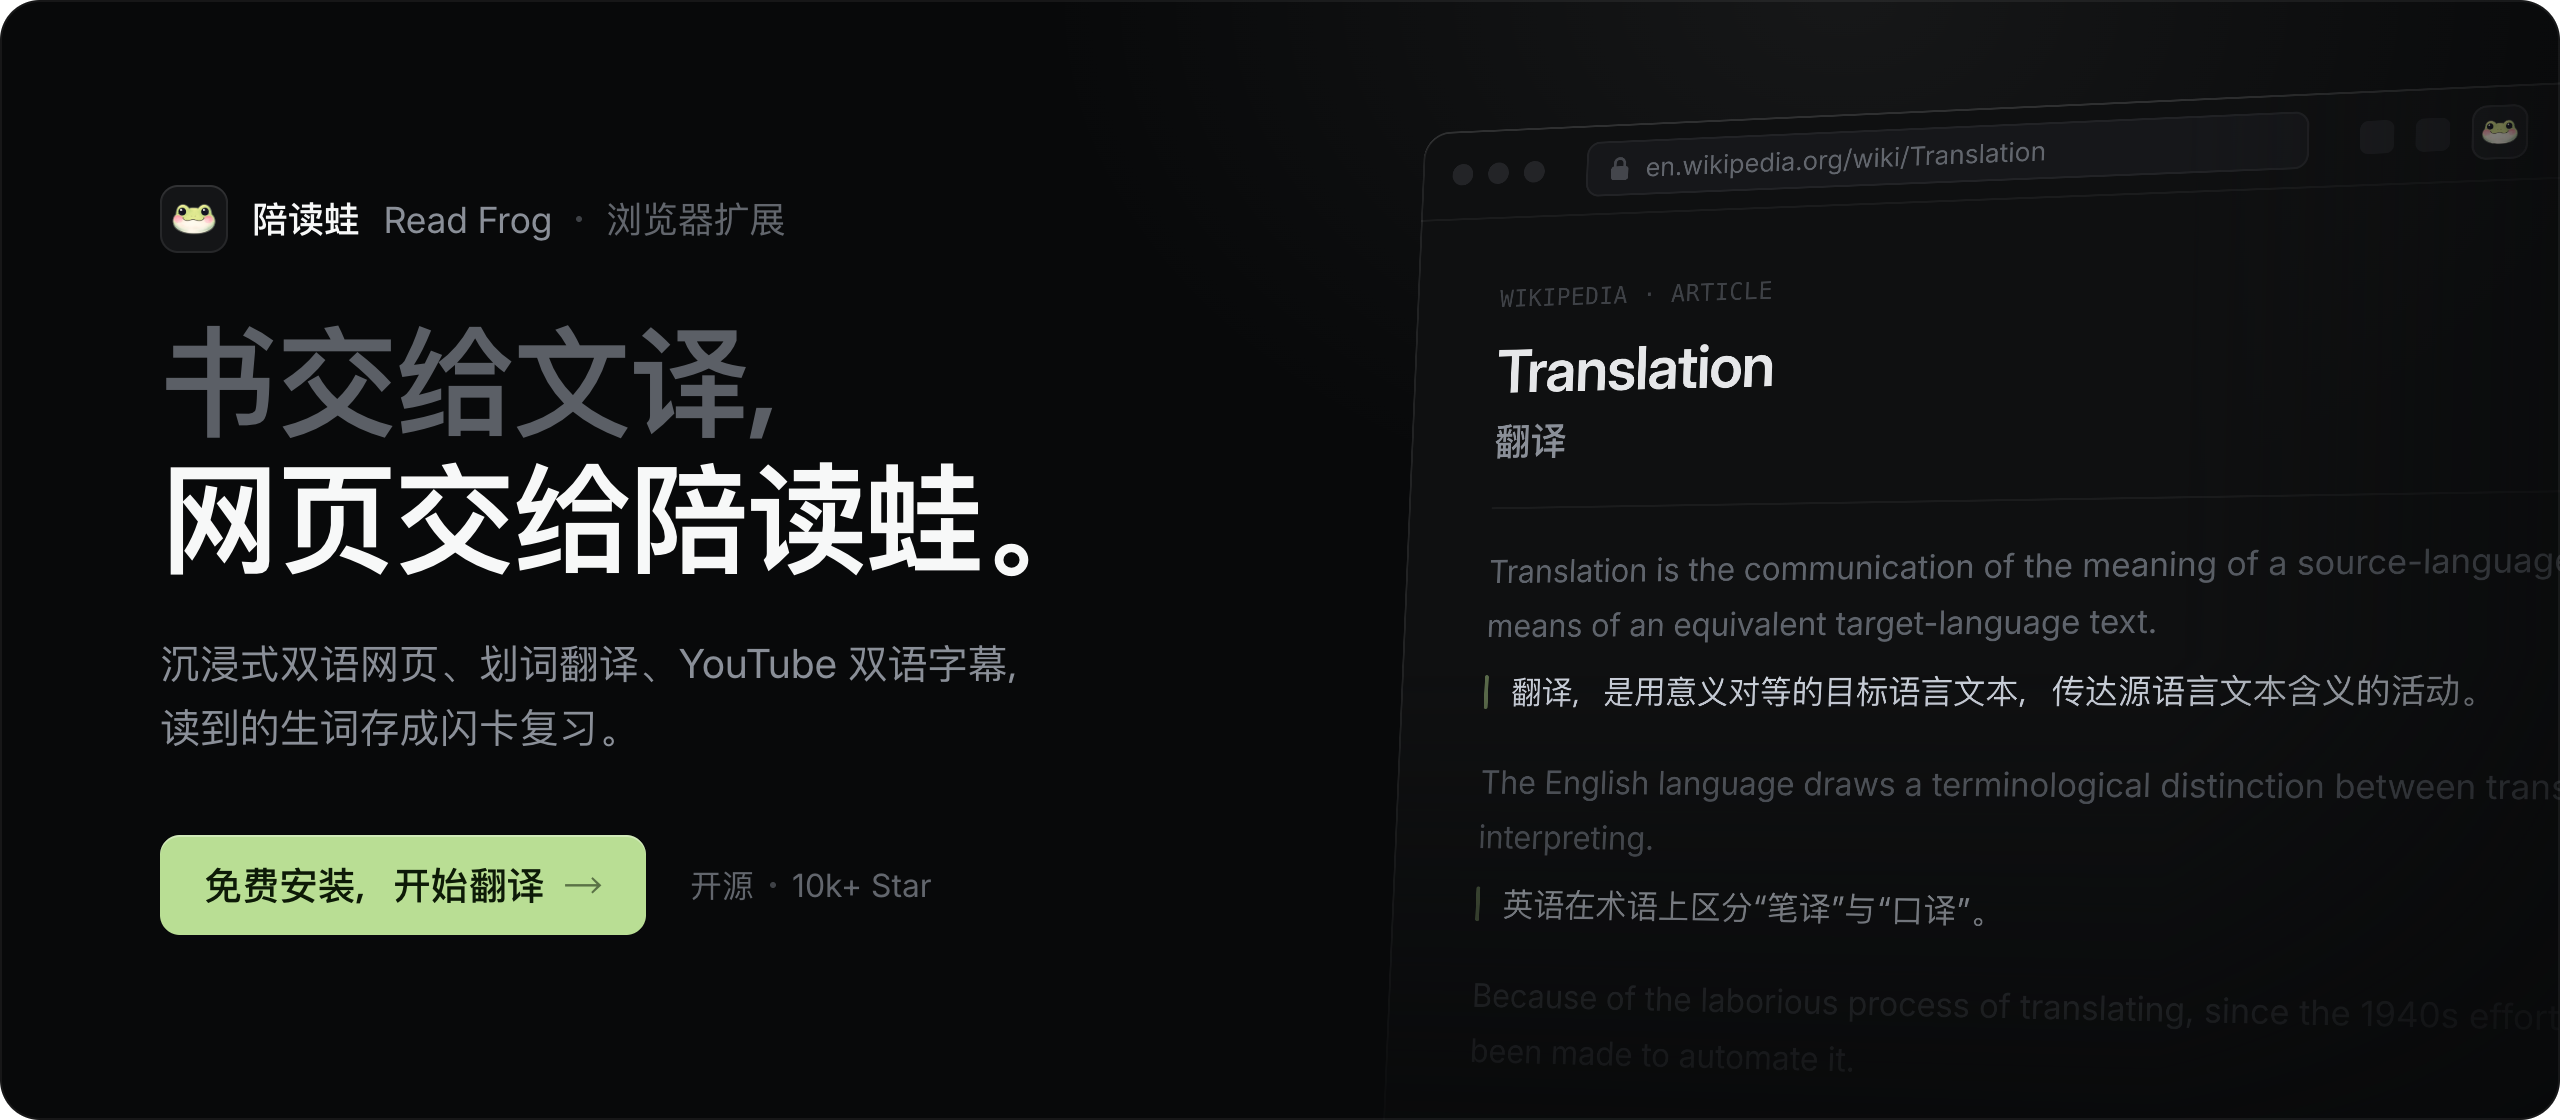
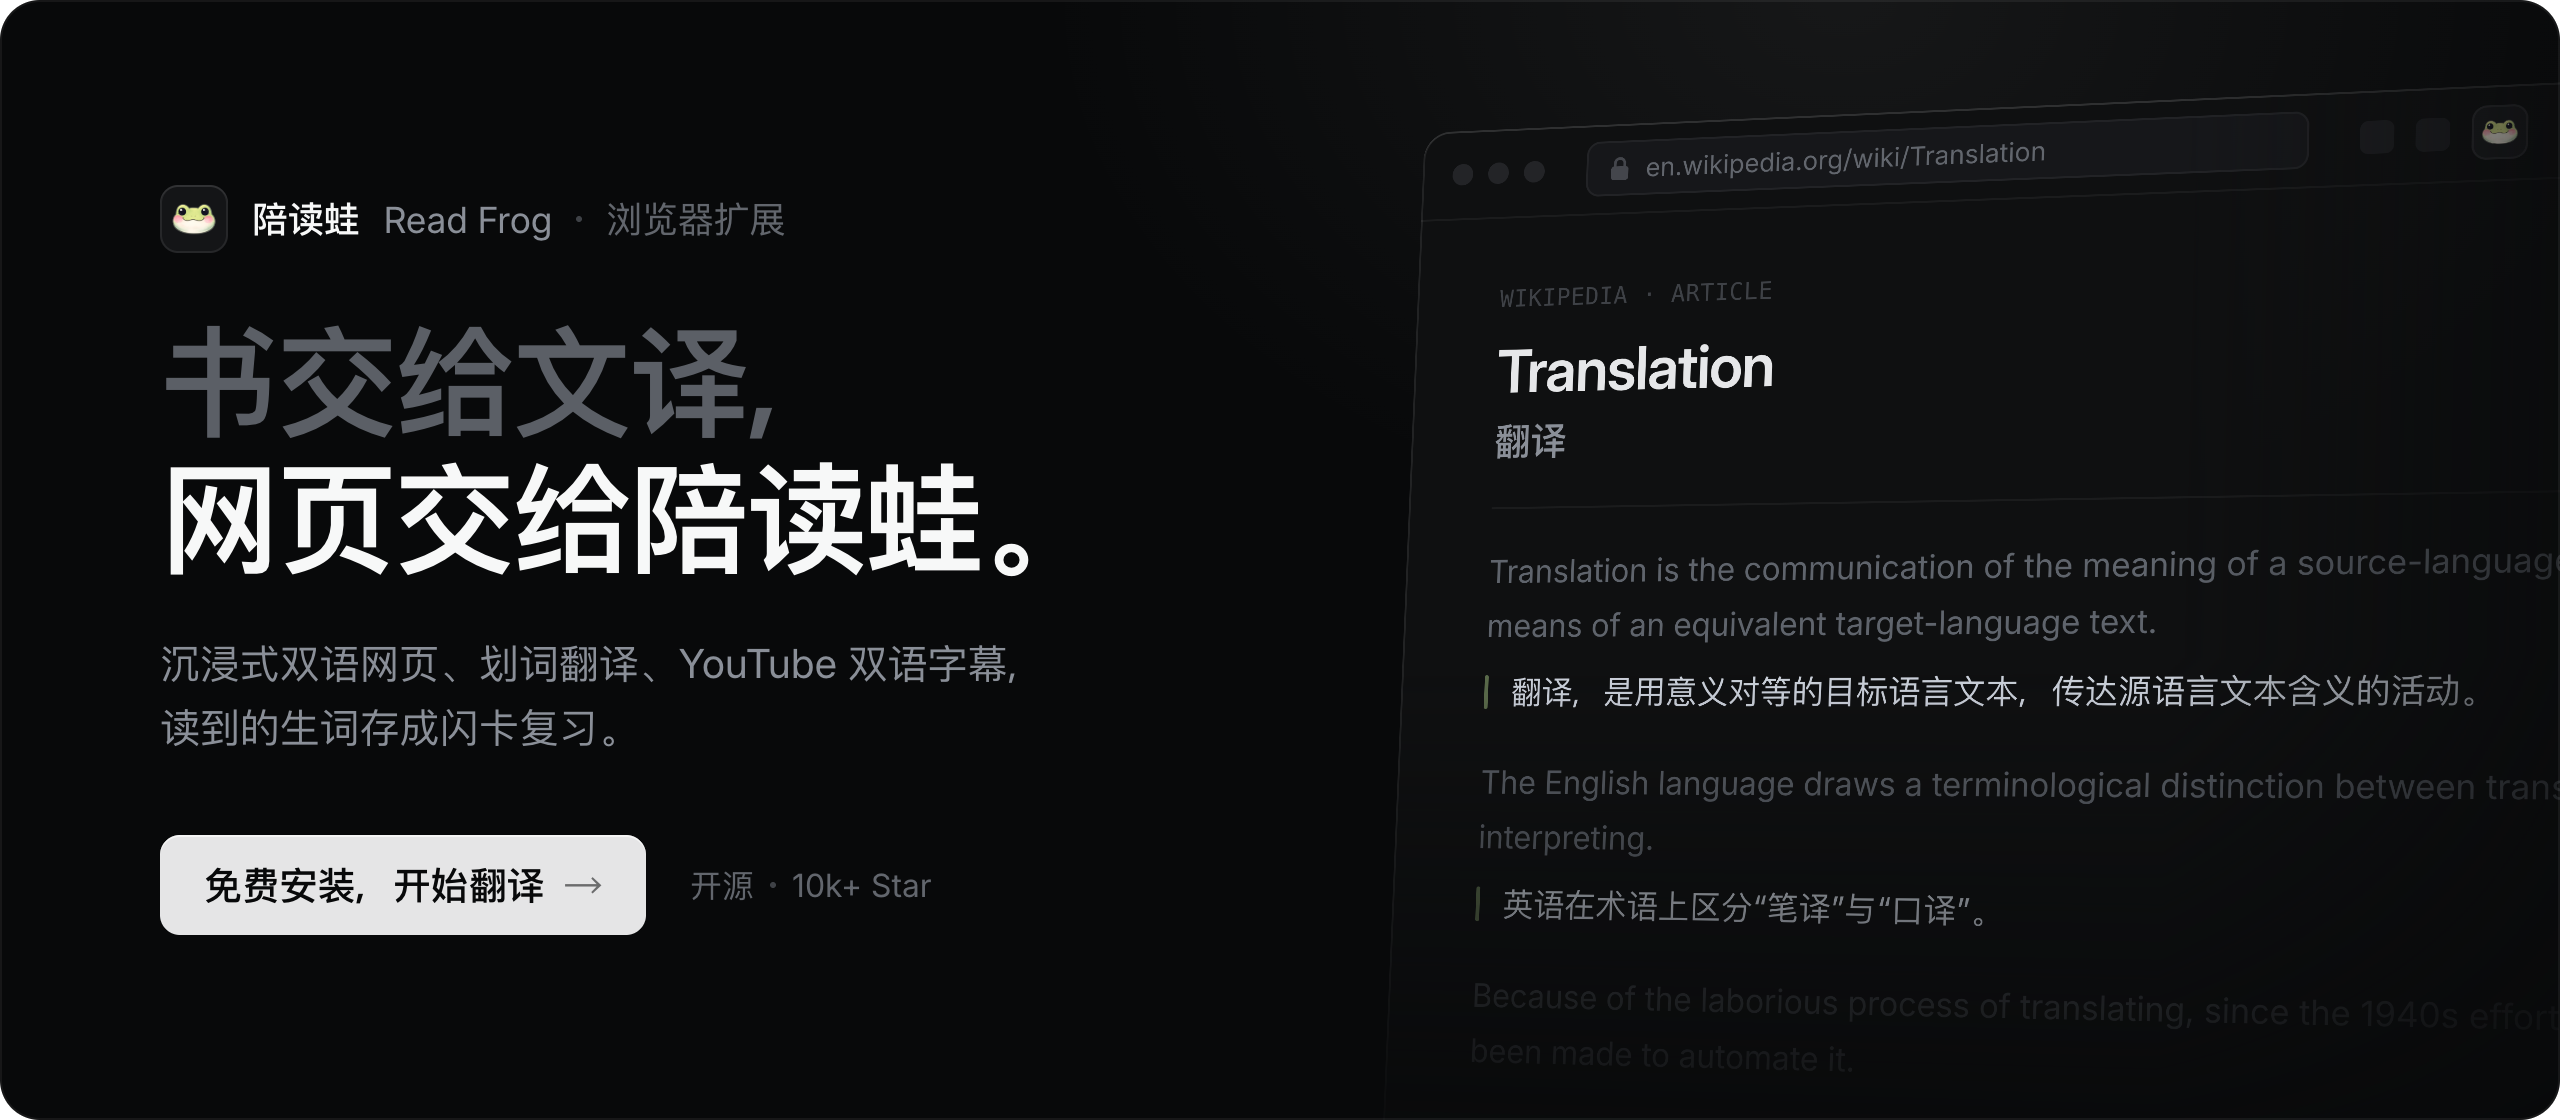
docs(readme): use a light install button and language UTM content
Switch the Read Frog banner's install button to the light neutral
style. Tag each README link with its language in utm_content, matching
the other Read Frog README referrals.

Changed region(s): [[0.0625, 0.7188, 0.25, 0.8438]]

diff --git a/README.md b/README.md
@@ -22,7 +22,7 @@ Whole-book understanding · Consistent terminology · Evidence-based review
 
 <a href="https://hellogithub.com/repository/BigDawnGhost/wenyi" target="_blank"><img src="https://abroad.hellogithub.com/v1/widgets/recommend.svg?rid=648c0ab0997c42479027e360f604fa23&claim_uid=EkLpt1FHIqRrade&theme=small" alt="Featured｜HelloGitHub" /></a>
 
-<a href="https://www.readfrog.app/zh?utm_source=github&utm_medium=readme&utm_campaign=wenyi&utm_content=readme-en" target="_blank"><img src="docs/images/read-frog-banner.png" alt="陪读蛙：在浏览器里沉浸式双语翻译网页、划词与 YouTube 字幕，免费安装，开始翻译。" /></a>
+<a href="https://www.readfrog.app/zh?utm_source=github&utm_medium=readme&utm_campaign=wenyi&utm_content=en" target="_blank"><img src="docs/images/read-frog-banner.png" alt="陪读蛙：在浏览器里沉浸式双语翻译网页、划词与 YouTube 字幕，免费安装，开始翻译。" /></a>
 
 </div>
 

diff --git a/docs/zh/README.md b/docs/zh/README.md
@@ -22,7 +22,7 @@
 
 <a href="https://hellogithub.com/repository/BigDawnGhost/wenyi" target="_blank"><img src="https://abroad.hellogithub.com/v1/widgets/recommend.svg?rid=648c0ab0997c42479027e360f604fa23&claim_uid=EkLpt1FHIqRrade&theme=small" alt="Featured｜HelloGitHub" /></a>
 
-<a href="https://www.readfrog.app/zh?utm_source=github&utm_medium=readme&utm_campaign=wenyi&utm_content=readme-zh" target="_blank"><img src="../images/read-frog-banner.png" alt="陪读蛙：在浏览器里沉浸式双语翻译网页、划词与 YouTube 字幕，免费安装，开始翻译。" /></a>
+<a href="https://www.readfrog.app/zh?utm_source=github&utm_medium=readme&utm_campaign=wenyi&utm_content=zh-CN" target="_blank"><img src="../images/read-frog-banner.png" alt="陪读蛙：在浏览器里沉浸式双语翻译网页、划词与 YouTube 字幕，免费安装，开始翻译。" /></a>
 
 </div>
 
